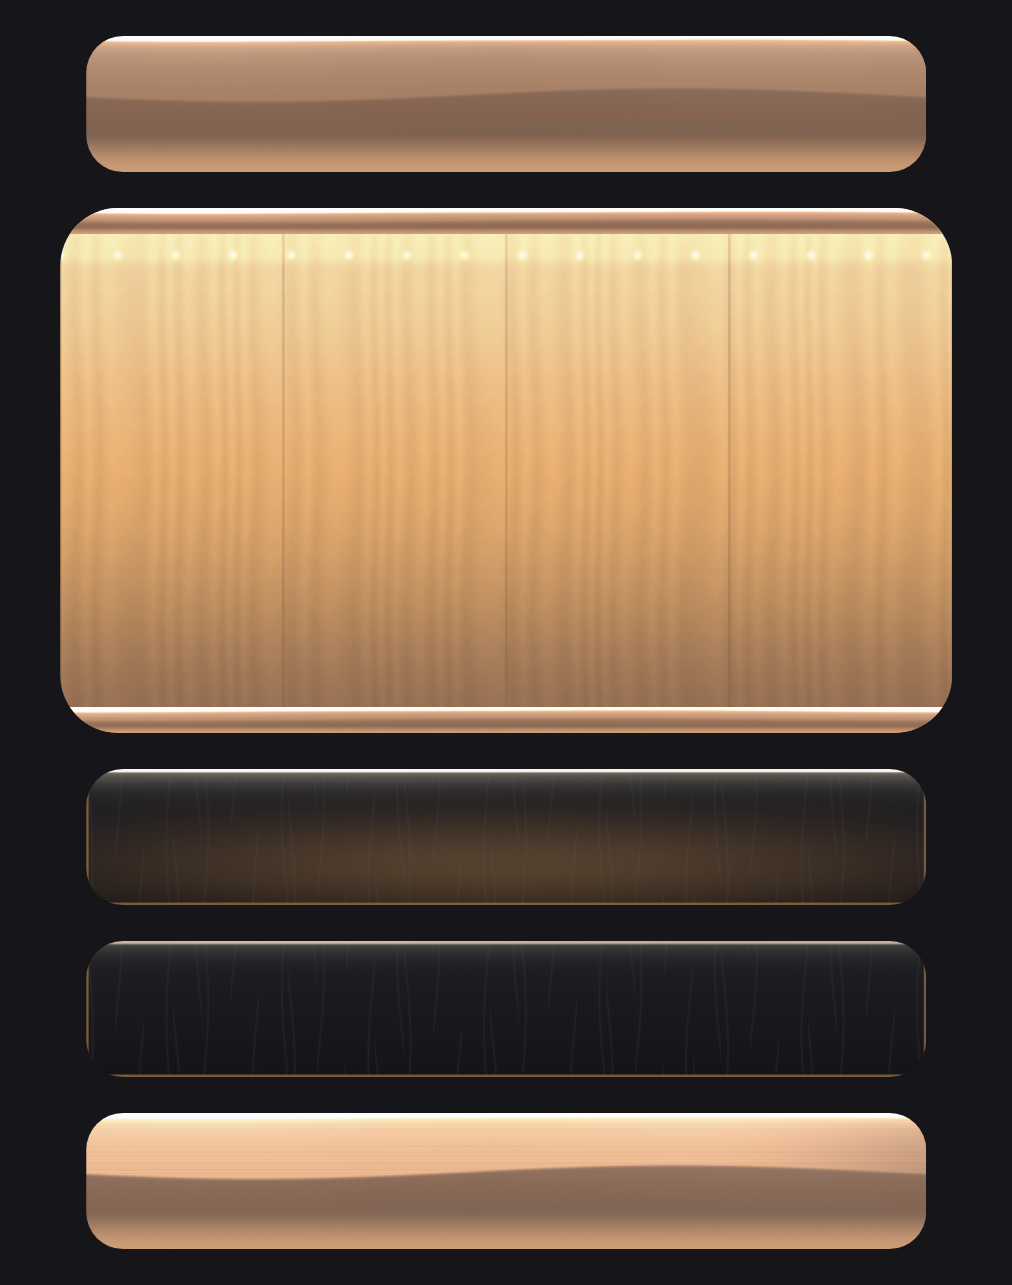
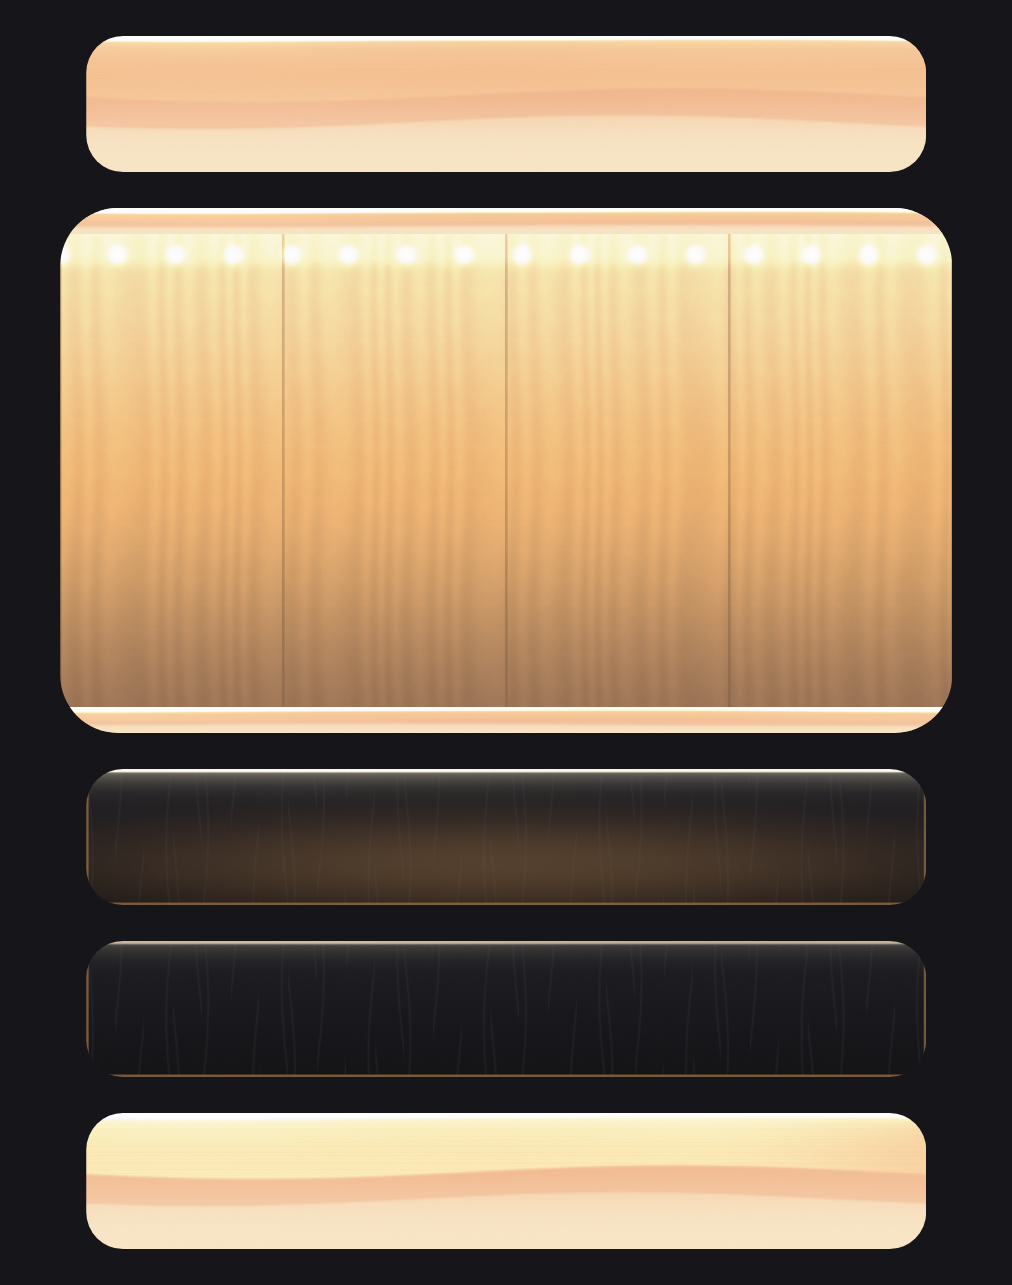
Kinu: 金の面を淡い金に、窓の天井の灯りをはっきり、金の部品に接地の影と輪郭、下の操作の後ろに薄い幕
エミュレータの画面と見本の比較から: 金のボタンがくすむ・下の主ボタンが足元の帯と重なって消える・名刺が金属板に見える、を直す。

Claude-Session: https://claude.ai/code/session_01EQFTQg9fP95wRPnruyYC8J

Changed region(s): [[0.0613, 0.0311, 0.9496, 0.2179], [0.0613, 0.8716, 0.919, 0.9961], [0.0919, 0.5292, 0.919, 0.5914]]

diff --git a/app/src/main/java/com/example/businesscard/ui/kinu/KinuShaders.kt b/app/src/main/java/com/example/businesscard/ui/kinu/KinuShaders.kt
@@ -262,18 +262,21 @@ half4 main(float2 p) {
     float amt = line * on * (0.92 + 0.08 * sin(PI2 * 1.5 * u + seed));
 
     // ---- 面の明るさ: 上は赤茶の陰、下へ向かって琥珀の照り返しで明るい。上 20% で縁が丸く回り込む ----
+    // 面の大部分は見本の光る帯(淡い金・わずかにピンク寄り #CC9871〜#F3CAAE)。陰の色は細い溝だけに使う
     float3 shade = toLin(goldShade);
     float3 lit = toLin(goldLit);
-    float wrap = exp(-max(v, 0.0) * H / 5.0);            // 縁の回り込みの明るさ(上の数 dp)
-    float3 base = mix(shade, lit, smoothstep(0.7, 1.0, v) * 0.8);
-    base += shade * 0.35 * wrap;
+    float3 bright = toLin(half4(0.9529, 0.7922, 0.6824, 1.0));   // #F3CAAE
+    float3 face = mix(lit, bright, smoothstep(0.2, 0.9, v));
+    // 縁の回り込み: 上 20% だけ陰へ寄せる(面の大部分は明るいまま)
+    float wrap = exp(-max(v, 0.0) * H / 4.0);
+    float3 base = mix(face, shade, 0.35 * wrap);
+    base *= 1.3;                                          // 全体の平均の明るさを 1.5 倍程度に(白へ飛ばないよう 1.3 で止める)
 
-    // 緩い溝: 下へ向かってゆるく凹む(うねりつき)
+    // 細い溝: 下寄りに 1 本だけ、狭く。最暗部も goldShade より暗くしない(赤茶の彩度を保つ)
     float gv = 0.62 + 0.05 * sin(PI2 * u + seed * 2.3);
-    float groove = exp(-pow((v - gv) * H / 2.6, 2.0));
-    // 溝は暗くしすぎず、赤茶の彩度を保つ(輝度はほぼ保ったまま赤へ寄せる。灰色に転ばない)
-    float3 warmGroove = base * float3(1.16, 0.96, 0.76);
-    base = mix(base, warmGroove, 0.5 * groove);
+    float groove = exp(-pow((v - gv) * H / 0.9, 2.0));
+    float3 warmGroove = max(base * float3(0.84, 0.66, 0.56), shade * 1.5);
+    base = mix(base, warmGroove, 0.6 * groove);
 
     // ---- つや: 横に伸びるヘアライン。うねりは 0.5〜1.5 周期。指の x へ寄せる ----
     bool touchOn = touch.x >= 0.0;
@@ -345,9 +348,10 @@ half4 main(float2 p) {
     float PI2 = 6.28318;
 
     // 上から下へ: 明るい琥珀 → 琥珀 → 奥の暗い琥珀
-    float3 hi = toLin(amberHi);
-    float3 mid = toLin(amber);
-    float3 deep = toLin(amberDeep);
+    // 全体をクリーム寄りに明るく(#FFDEAA→#ECB272。奥は暗い琥珀)
+    float3 hi = toLin(amberHi) * 1.15;
+    float3 mid = toLin(amber) * 1.15;
+    float3 deep = toLin(amberDeep) * 1.1;
     float3 col = mix(mid, hi, smoothstep(0.55, 0.0, v));
     col = mix(col, deep, smoothstep(0.45, 1.0, v));
 
@@ -356,9 +360,10 @@ half4 main(float2 p) {
     float cellX = 22.0 * dp;
     float dx = (fract(p.x / cellX + 0.5) - 0.5) * cellX;
     float dyc = p.y - ceilY;
-    float lamp = exp(-(dx * dx + dyc * dyc) / (1.3 * dp * 1.3 * dp));
-    float ceilBand = exp(-pow(dyc / (3.0 * dp), 2.0)) * 0.25;
-    col += toLin(amberHi) * (lamp * 1.1 + ceilBand) * smoothstep(0.3, 0.0, v);
+    // 点のにじみは半径を大きく(2.6dp)、中心は HDR で白の 2 倍近くまで(通常の画面では白で止まる)
+    float lamp = exp(-(dx * dx + dyc * dyc) / (2.6 * dp * 2.6 * dp));
+    float ceilBand = exp(-pow(dyc / (4.0 * dp), 2.0)) * 0.35;
+    col += toLin(half4(1.0, 0.95, 0.80, 1.0)) * (lamp * 2.2 + ceilBand) * smoothstep(0.3, 0.0, v);
 
     // 縦の薄いカーテン: 柔らかい縦縞(振幅 11%。見本のひだに合わせて SPEC の 6% より強め)
     // 布のひだの間隔はまばら。x をゆるく歪ませて周期を不揃いにする(約 74dp と 27dp のうねりを重ねる)
@@ -370,7 +375,7 @@ half4 main(float2 p) {
     float cell = size.x / 4.0;
     float m = abs(fract(p.x / cell + 0.5) - 0.5) * cell;
     float bar = 1.0 - smoothstep(0.35 * dp, 0.5 * dp + 0.5, m);
-    col = mix(col, toLin(mullion), 0.3 * bar);
+    col = mix(col, toLin(mullion), 0.45 * bar);
 
     // 青海波の点描(不透明度 6%。扇の半径 10dp)
     float rowH = 10.0 * dp;

diff --git a/app/src/main/java/com/example/businesscard/ui/kinu/KinuSurface.kt b/app/src/main/java/com/example/businesscard/ui/kinu/KinuSurface.kt
@@ -1,6 +1,8 @@
 package com.example.businesscard.ui.kinu
 
+import android.graphics.BlurMaskFilter
 import android.graphics.RuntimeShader
+import android.graphics.Paint as NativePaint
 import androidx.compose.animation.core.Animatable
 import androidx.compose.animation.core.LinearEasing
 import androidx.compose.animation.core.tween
@@ -20,11 +22,16 @@ import androidx.compose.ui.Modifier
 import androidx.compose.ui.draw.clip
 import androidx.compose.ui.draw.drawWithCache
 import androidx.compose.ui.geometry.Offset
+import androidx.compose.ui.graphics.Color
 import androidx.compose.ui.graphics.Path
 import androidx.compose.ui.graphics.Shape
 import androidx.compose.ui.graphics.ShaderBrush
 import androidx.compose.ui.graphics.addOutline
+import androidx.compose.ui.graphics.asAndroidPath
 import androidx.compose.ui.graphics.drawscope.Stroke
+import androidx.compose.ui.graphics.drawscope.clipPath
+import androidx.compose.ui.graphics.drawscope.drawIntoCanvas
+import androidx.compose.ui.graphics.nativeCanvas
 import androidx.compose.ui.graphics.toArgb
 import androidx.compose.ui.input.pointer.pointerInput
 import androidx.compose.ui.platform.LocalContext
@@ -152,8 +159,18 @@ fun Modifier.kinuRibbon(
     val c = KinuTheme.colors
     val hdr = LocalGlowHeadroom.current
     val shader = remember { RuntimeShader(KinuShaders.RIBBON) }
-    return this.clip(shape).drawWithCache {
+    // 形の外へ落ちる接地の影を切らないため、clip せず、面だけを形で切り抜く
+    return this.drawWithCache {
         val brush = ShaderBrush(shader)
+        val path = Path().apply { addOutline(shape.createOutline(size, layoutDirection, this@drawWithCache)) }
+        val native = path.asAndroidPath()
+        val shadow = NativePaint(NativePaint.ANTI_ALIAS_FLAG).apply {
+            maskFilter = BlurMaskFilter(8.dp.toPx(), BlurMaskFilter.Blur.NORMAL)
+            color = Color.Black.copy(alpha = 0.55f).toArgb()
+        }
+        val shadowDy = 3.dp.toPx()
+        val rimWidth = 1.dp.toPx()
+        val rimColor = c.ink.copy(alpha = 0.5f)
         shader.setFloatUniform("size", size.width, size.height)
         shader.setFloatUniform("dp", 1.dp.toPx())
         shader.setFloatUniform("hdr", hdr)
@@ -163,11 +180,23 @@ fun Modifier.kinuRibbon(
         shader.setColorUniform("goldDeep", c.goldDeep.toArgb())
         shader.setColorUniform("lineCore", c.lineCore.toArgb())
         onDrawBehind {
-            shader.setFloatUniform("line", line())
-            shader.setFloatUniform("ignite", ignite.value)
-            val t = touch()
-            shader.setFloatUniform("touch", t.x, t.y)
-            drawRect(brush)
+            // 接地の影(下へずらしてぼかす。面の下に隠れる分は見えない)
+            drawIntoCanvas { canvas ->
+                val nc = canvas.nativeCanvas
+                nc.save()
+                nc.translate(0f, shadowDy)
+                nc.drawPath(native, shadow)
+                nc.restore()
+            }
+            clipPath(path) {
+                shader.setFloatUniform("line", line())
+                shader.setFloatUniform("ignite", ignite.value)
+                val t = touch()
+                shader.setFloatUniform("touch", t.x, t.y)
+                drawRect(brush)
+            }
+            // 輪郭の暗い線
+            drawPath(path, rimColor, style = Stroke(rimWidth))
         }
     }
 }

diff --git a/app/src/main/java/com/example/businesscard/ui/kinu/KinuBackground.kt b/app/src/main/java/com/example/businesscard/ui/kinu/KinuBackground.kt
@@ -1,6 +1,7 @@
 package com.example.businesscard.ui.kinu
 
 import android.graphics.RuntimeShader
+import androidx.compose.foundation.background
 import androidx.compose.foundation.layout.Box
 import androidx.compose.foundation.layout.BoxScope
 import androidx.compose.foundation.layout.PaddingValues
@@ -14,6 +15,7 @@ import androidx.compose.runtime.CompositionLocalProvider
 import androidx.compose.runtime.remember
 import androidx.compose.ui.Modifier
 import androidx.compose.ui.draw.drawWithCache
+import androidx.compose.ui.graphics.Brush
 import androidx.compose.ui.graphics.Color
 import androidx.compose.ui.graphics.ShaderBrush
 import androidx.compose.ui.graphics.toArgb
@@ -69,16 +71,30 @@ fun KinuScaffold(
     bottomBar: @Composable () -> Unit = {},
     content: @Composable (PaddingValues) -> Unit,
 ) {
+    val c = KinuTheme.colors
     KinuBackground(modifier) {
         Scaffold(
             modifier = Modifier
                 .fillMaxSize()
                 .windowInsetsPadding(WindowInsets.safeDrawing),
             containerColor = Color.Transparent,
-            contentColor = KinuTheme.colors.champagne,
+            contentColor = c.champagne,
             contentWindowInsets = WindowInsets(0, 0, 0, 0),
             topBar = topBar,
-            bottomBar = bottomBar,
+            // 操作の後ろに、透明から塔の色へ薄く落ちる幕を敷き、足元の帯が操作の後ろで少し沈むように見せる
+            bottomBar = {
+                Box(
+                    modifier = Modifier
+                        .fillMaxWidth()
+                        .background(
+                            Brush.verticalGradient(
+                                listOf(Color.Transparent, c.tower.copy(alpha = 0.7f)),
+                            ),
+                        ),
+                ) {
+                    bottomBar()
+                }
+            },
             content = content,
         )
     }
